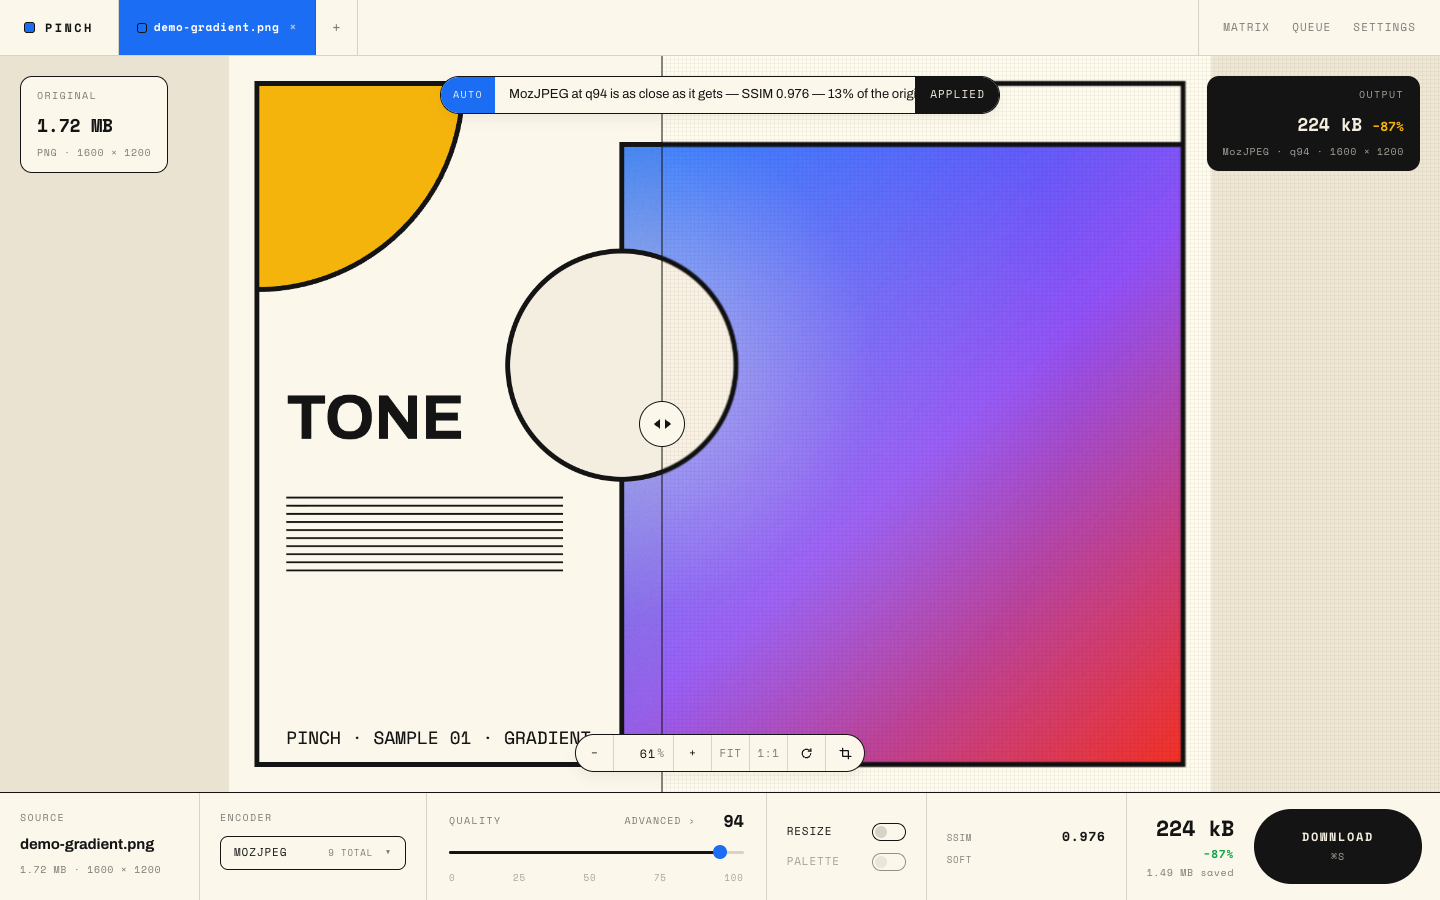
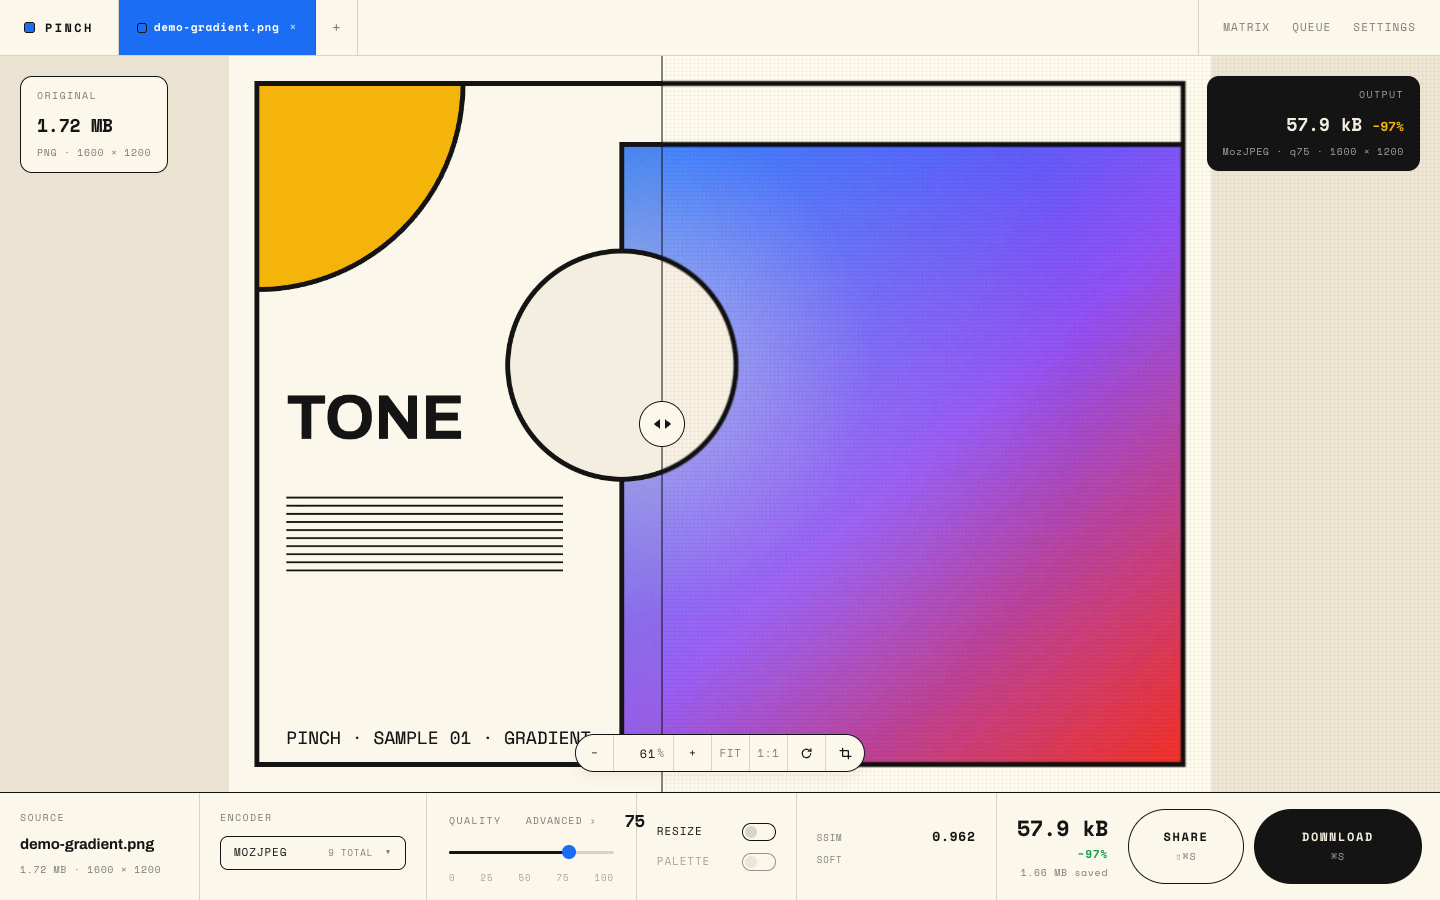
fix: regenerate the editor screenshot, drop the dead auto-pill probe
docs/media/editor.png still showed the deleted Auto pill; regenerated via
scripts/generate-assets.mjs shots. Also removes that script's dead
`.auto-pill button` polling loop, a leftover from driving the now-removed
feature into a settled state before the shot, and its stale comment.

diff --git a/src/lib/metrics/ssim.ts b/src/lib/metrics/ssim.ts
@@ -1,6 +1,6 @@
 /**
- * Structural similarity, the number behind the editor's `SSIM 0.994` cell, the
- * matrix cells and the Auto pill.
+ * Structural similarity, the number behind the editor's `SSIM 0.994` cell and
+ * the matrix cells.
  *
  * Pure and dependency-free: no DOM, no worker, no `ImageData` constructor — it
  * reads `{ data, width, height }` and returns plain values, so the whole file
